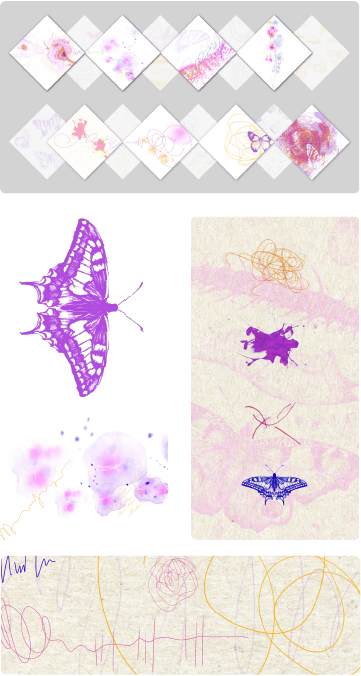
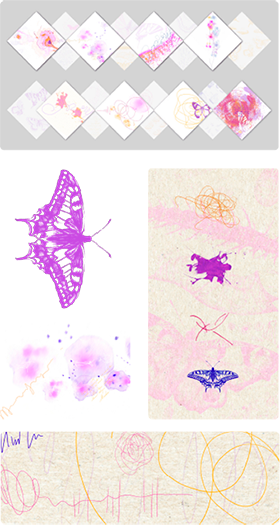
ultimos cambios

diff --git a/estilos.css b/estilos.css
@@ -150,6 +150,29 @@ input[type="radio"] {
     position: relative;
     height: 920px;
     width: 100%;
+    display: flex;
+    flex-direction: column;
+    align-items: center;
+    gap: 50px;
+    margin-bottom: 50px;
+}
+
+.container h2 {
+    padding: 0px 30px 5px 30px;
+    margin: 0px;
+}
+
+.container a {
+    background-color: rgb(154, 73, 208, 0.20);
+    padding: 15px;
+    border-radius: 20px;
+    color: #1D1D1B;
+}
+
+.container a:hover {
+    background-color: #888;
+    box-shadow: 0px 0px 3px #888;
+    color: #590D8B;
 }
 
 .slide-wrapper {
@@ -160,8 +183,6 @@ input[type="radio"] {
     height: 750px;
     overflow: hidden;
 }
-
-/*Slides*/
 
 #slide-role {
     background: inherit;
@@ -203,22 +224,22 @@ input[type="radio"] {
 
 .btn {
     position: absolute;
-    bottom: 10%;
+    right: 10%;
     width: 30px;
     height: 30px;
     cursor: pointer;
 }
 
 .btn:nth-of-type(1) {
-    left: 45%;
+    bottom: 55%;
 }
 
 .btn:nth-of-type(2) {
-    left: 50%;
+    bottom: 50%;
 }
 
 .btn:nth-of-type(3) {
-    left: 55%;
+    bottom: 45%;
 }
 
 .btn:hover {
@@ -271,7 +292,7 @@ h1 {
 }
 
 h2 {
-    font-size: 1.5em;
+    font-size: 1.3em;
     font-weight: bold;
     border-bottom: 2px solid #9A48D0;
     width: fit-content;
@@ -296,7 +317,7 @@ p {
     justify-content: center;
     padding: 100px 0px;
     gap: 50px;
-    height: 90vh;
+    height: 100vh;
 }
 
 .datos ul li {
@@ -324,6 +345,13 @@ p {
     display: flex;
     gap: 10%;
     justify-content: space-between;
+}
+
+.aptitudes {
+    flex: 2;
+}
+.estudios {
+    flex: 3;
 }
 
 .estudios-aptitudes li {
@@ -386,11 +414,6 @@ p {
 
 .descripcion li {
     padding-top: 10px;
-}
-
-h5 {
-    letter-spacing: 2px;
-    font-size: 1.2em;
 }
 
 .columna-thrasher{
@@ -837,13 +860,22 @@ footer {
         width: 100%;        
     }
 
+    .tipografia {
+        margin-bottom: 30px;
+        width: 100%;
+    }
+
     .presentacion {
-        margin: 100px 0px 0px 0px;
+        margin: 50px 0px 0px 0px;
     }
 
     .texto-presentacion {
         max-width: 80%;  
     }        
+
+    #hola {
+        height: auto;
+    }
 
     .diamantes {
         bottom: 20px;
@@ -870,8 +902,8 @@ footer {
     /*-------------------------------------*/
 
     .perfil {
-        padding: 50px 30px;
-        height: 90vh;
+        height: auto;
+        padding: 50px 20px;
         flex-direction: column;
         align-items: center;
         justify-content: flex-start;
@@ -893,13 +925,16 @@ footer {
 
     /*-----------------------------------*/
 
-    .container{
-        align-content: center;
+    .container {
+        position: relative;
+        height: auto;
+        width: 100%;
+        margin: 50px 0px;
     }
 
     .slide-wrapper {
-        width: 360px;
-        height: 675px;
+        width: 280px;
+        height: 525px;
     }
     .btn:nth-of-type(1) {
         left: 90%;

diff --git a/proyectos.html b/proyectos.html
@@ -4,7 +4,7 @@
     <meta charset="utf-8"/>
     <meta name="viewport" content="width=device-width, initial-scale=1.0">
 
-    <title>Quintana-porfolio</title>
+    <title>Quintana Portfolio | Proyecto</title>
     <link href="estilos.css" rel="stylesheet" type="text/css" />
     <link rel="icon" type="imagen/x-icon" href="img/favicon2.ico"/>
     <link rel="preconnect" href="https://fonts.googleapis.com">
@@ -52,7 +52,7 @@
                 <div class="duo-filas-end">
                     <a href="#foto-1"><img src="img/thrasher/latas-flotando.jpg" width="810px" height="380px" alt="tres latas" onclick="mostrarGaleria()"></a>
                     <ul class="descripcion">
-                        <li><h5>THRASHER</h5></li>
+                        <li><h2>THRASHER</h2></li>
                         <li>Trabajo desarrollado en la materia taller de diseño 3 - Catedra Ibarra.</li>
                         <li>Desarrollo de sistema de identidad de 3 latas de bebida a elección sobre marca reversionada</li>
                     </ul>
@@ -87,7 +87,7 @@
                         <source src="img/lettering/video/corto.mp4" type="video/mp4">
                     </video>                        
                     <ul class="descripcion">
-                        <li><h5>LETTERING</h5></li>
+                        <li><h2>LETTERING</h2></li>
                         <li>Trabajo desarrollado en la materia “espacio tipográfico 3” - Catedra Sanchez</li>
                         <li>Desarrollo de lettering con temática a elección.</li>
                     </ul>                    
@@ -115,7 +115,7 @@
                     </div>
                     <div class="columna-proyectos">
                         <ul class="descripcion">
-                            <li><h5>INFOGRAFÍA</h5></li>
+                            <li><h2>INFOGRAFÍA</h2></li>
                             <li>Trabajo desarrollado en la materia “espacio tipográfico 3” - Catedra Sanchez</li>
                             <li>Desarrollo de infografía sobre producto Argentino.</li>
                         </ul>
@@ -136,7 +136,7 @@
             <article id="desplegable" class="centrado-color-2">
                 <div class="duo-filas-end">
                     <ul class="descripcion">
-                        <li><h5>NOTACIÓN MUSICAL</h5></li>
+                        <li><h2>NOTACIÓN MUSICAL</h2></li>
                         <li>Trabajo desarrollado en la materia “Medios expresivos 3” - Catedra San Miguel</li>
                         <li>Desarrollo de desplegable e interactivo.</li>
                     </ul>

diff --git a/index.html b/index.html
@@ -4,7 +4,7 @@
     <meta charset="utf-8"/>
     <meta name="viewport" content="width=device-width, initial-scale=1.0">
 
-    <title>Quintana-porfolio</title>
+    <title>Quintana Portfolio | Inicio</title>
     <link href="estilos.css" rel="stylesheet" type="text/css" />
     <link rel="icon" type="imagen/x-icon" href="img/favicon2.ico"/>
     <link rel="preconnect" href="https://fonts.googleapis.com">
@@ -63,6 +63,8 @@
         <!-- Slide -->
         <section>
             <div class="container">
+                <h2>Proyectos destacados</h2>
+
                 <input type="radio" name="slider" id="slide-1-trigger" class="trigger" checked>
                 <label class="btn" for="slide-1-trigger"></label>
                 <input type="radio" name="slider" id="slide-2-trigger" class="trigger">
@@ -78,7 +80,10 @@
                         <div class="slide slide-3"></div>
                     </div>
                 </div>
+
+                <a href="proyectos.html">ver más</a>
             </div>
+            
         </section>
     </main>
 

diff --git a/sobremi.html b/sobremi.html
@@ -4,7 +4,7 @@
     <meta charset="utf-8"/>
     <meta name="viewport" content="width=device-width, initial-scale=1.0">
 
-    <title>Quintana-porfolio</title>
+    <title>Quintana Portfolio | Sobre mí</title>
     <link href="estilos.css" rel="stylesheet" type="text/css" />
     <link rel="icon" type="imagen/x-icon" href="img/favicon2.ico"/>
     <link rel="preconnect" href="https://fonts.googleapis.com">

diff --git a/contacto.html b/contacto.html
@@ -4,7 +4,7 @@
     <meta charset="utf-8"/>
     <meta name="viewport" content="width=device-width, initial-scale=1.0">
 
-    <title>Quintana-porfolio</title>
+    <title>Quintana Portfolio | Contacto</title>
     <link href="estilos.css" rel="stylesheet" type="text/css" />
     <link rel="icon" type="imagen/x-icon" href="img/favicon2.ico"/>
     <link rel="preconnect" href="https://fonts.googleapis.com">
